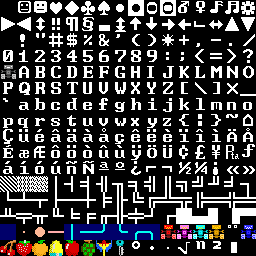
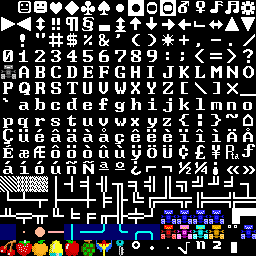
Track ghosts when edible (Fixes #38)
This commit fixes Issue #38.

I fixed it by creating new sprites for each ghost for when they are edible. The Ghost object has a normal `char` and an `edible_char` for when it is edible. The appropriate sprite is mapped depending on its personal vulnerability level (once eaten, ghosts are no longer vulnerable even if others are). The sensors (e.g.) inky_x and inky_y search for either INKY or EDIBLE_INKY and return whichever is visible. The point sensors (e.g.) sense_n will return GHOST regardless of which ghost or its edibility.

Changed region(s): [[0.625, 0.8125, 0.875, 0.875]]

diff --git a/game.py b/game.py
@@ -8,13 +8,15 @@ from CYLGame.Player import DefaultGridPlayer
 import sys
 
 
-DEBUG = False
+DEBUG = True
+DUMP_BOT_VARS = False
 
 
 class Ghost:
-    def __init__(self, name, char, start_x, start_y, in_house=True):
+    def __init__(self, name, char, edible_char, start_x, start_y, in_house=True):
         self.name = name
         self.char = char
+        self.edible_char = edible_char
         self.start_x = start_x
         self.start_y = start_y
         self.pos = [start_x, start_y]
@@ -84,6 +86,10 @@ class PacBot(GridGame):
     PINKY = chr(235)
     INKY = chr(236)
     CLYDE = chr(237)
+    EDIBLE_BLINKY = chr(218)
+    EDIBLE_PINKY = chr(219)
+    EDIBLE_INKY = chr(220)
+    EDIBLE_CLYDE = chr(221)
     EYES = chr(238)
     EDIBLE = chr(239)
 
@@ -133,10 +139,10 @@ class PacBot(GridGame):
         # array of ghost objects
         # ghosts use the functions in the PacBot object
         self.ghosts = {}
-        self.ghosts['blinky'] = Ghost("blinky", self.BLINKY, self.BLINKY_START_X, self.BLINKY_START_Y)
-        self.ghosts['pinky'] = Ghost("pinky", self.PINKY, self.PINKY_START_X, self.PINKY_START_Y)
-        self.ghosts['inky'] = Ghost("inky", self.INKY, self.INKY_START_X, self.INKY_START_Y)
-        self.ghosts['clyde'] = Ghost("clyde", self.CLYDE, self.CLYDE_START_X, self.CLYDE_START_Y)
+        self.ghosts['blinky'] = Ghost("blinky", self.BLINKY, self.EDIBLE_BLINKY, self.BLINKY_START_X, self.BLINKY_START_Y)
+        self.ghosts['pinky'] = Ghost("pinky", self.PINKY, self.EDIBLE_PINKY, self.PINKY_START_X, self.PINKY_START_Y)
+        self.ghosts['inky'] = Ghost("inky", self.INKY, self.EDIBLE_INKY, self.INKY_START_X, self.INKY_START_Y)
+        self.ghosts['clyde'] = Ghost("clyde", self.CLYDE, self.EDIBLE_CLYDE, self.CLYDE_START_X, self.CLYDE_START_Y)
 
         # self.__create_map()
 
@@ -282,8 +288,6 @@ class PacBot(GridGame):
 
         self.print_ready()
 
-        if DEBUG:
-            print(self.get_vars_for_bot())  # need sensors before turn
 
     def create_new_player(self, prog):
         self.player = DefaultGridPlayer(prog, self.get_move_consts())
@@ -312,7 +316,7 @@ class PacBot(GridGame):
                 placed_objects += 1
 
     def is_ghost(self, item):
-        if item == self.BLINKY or item == self.PINKY or item == self.INKY or item == self.CLYDE or item == self.EDIBLE:
+        if item == self.BLINKY or item == self.PINKY or item == self.INKY or item == self.CLYDE or item == self.EDIBLE_BLINKY or item == self.EDIBLE_PINKY or item == self.EDIBLE_INKY or item == self.EDIBLE_CLYDE:
             return True
         else:
             return False
@@ -342,11 +346,8 @@ class PacBot(GridGame):
     def redraw_ghost(self, ghost):
         if ghost.alive:
             if ghost.vulnerable > 0:
-                # draw ghosts in blue to indicate edibility
-                self.map[(ghost.pos[0], ghost.pos[1])] = self.EDIBLE
-
+                self.map[(ghost.pos[0], ghost.pos[1])] = ghost.edible_char
             else:
-                # otherwise use their color
                 self.map[(ghost.pos[0], ghost.pos[1])] = ghost.char
 
     def redraw_ghosts(self):
@@ -479,7 +480,6 @@ class PacBot(GridGame):
 
         # draw the ghost into the map spot so that other ghosts
         # won't share the same spot
-        # self.map[(ghost.pos[0], ghost.pos[1])] = ghost.char
         self.redraw_ghost(ghost)
         self.check_ghost_collisions()
 
@@ -531,10 +531,12 @@ class PacBot(GridGame):
             self.energized = self.ENERGIZED_TURNS
             self.pellets_eaten += 1
 
-            # make all ghosts vulnerable
+            # make all ghosts vulnerable:
+
             for g in self.ghosts:
                 ghost = self.ghosts[g]
                 ghost.vulnerable = self.ENERGIZED_TURNS
+                self.redraw_ghosts()
 
             self.pellets_eaten += 1
 
@@ -584,8 +586,6 @@ class PacBot(GridGame):
 
         # vars should be gotten at the end of handle_turn, because vars
         # affect the *next* turn...
-        if DEBUG:
-            print(self.get_vars_for_bot())
 
     def is_running(self):
         return self.running
@@ -614,7 +614,6 @@ class PacBot(GridGame):
 #                    item = ord(self.WALL)
                 w_arr.append(ord(self.map.p_to_char[(w,h)]))
             map_arr.append(tuple(w_arr))
-            print(w_arr)
 
         return tuple(map_arr)
 
@@ -653,16 +652,45 @@ class PacBot(GridGame):
         bot_vars["power_y"] = self.map.get_x_y_dist_to_foo(tuple(self.player_pos), self.POWER, default=(0, 0))[1]
         bot_vars["player_x"] = self.player_pos[0]
         bot_vars["player_y"] = self.player_pos[1]
-        bot_vars["blinky_x"] = self.map.get_x_y_dist_to_foo(tuple(self.player_pos), self.BLINKY, default=(0, 0))[0]
-        bot_vars["blinky_y"] = self.map.get_x_y_dist_to_foo(tuple(self.player_pos), self.BLINKY, default=(0, 0))[1]
-        bot_vars["inky_x"] = self.map.get_x_y_dist_to_foo(tuple(self.player_pos), self.INKY, default=(0, 0))[0]
-        bot_vars["inky_y"] = self.map.get_x_y_dist_to_foo(tuple(self.player_pos), self.INKY, default=(0, 0))[1]
-        bot_vars["pinky_x"] = self.map.get_x_y_dist_to_foo(tuple(self.player_pos), self.PINKY, default=(0, 0))[0]
-        bot_vars["pinky_y"] = self.map.get_x_y_dist_to_foo(tuple(self.player_pos), self.PINKY, default=(0, 0))[1]
-        bot_vars["clyde_x"] = self.map.get_x_y_dist_to_foo(tuple(self.player_pos), self.CLYDE, default=(0, 0))[0]
-        bot_vars["clyde_y"] = self.map.get_x_y_dist_to_foo(tuple(self.player_pos), self.CLYDE, default=(0, 0))[1]
+        
+        # get locations for ghosts -- edible or not
+        offset = self.map.get_x_y_dist_to_foo(tuple(self.player_pos), self.BLINKY, default=(0, 0))
 
+        if offset[0] == 0 and offset[1] == 0:
+            # blinky doesn't exist, so he must be edible_blinky!
+            offset = self.map.get_x_y_dist_to_foo(tuple(self.player_pos), self.EDIBLE_BLINKY, default=(0, 0))
+
+        bot_vars["blinky_x"] = offset[0]
+        bot_vars["blinky_y"] = offset[1]
+        
+        # rinse and repeat for other ghosts
+
+        offset = self.map.get_x_y_dist_to_foo(tuple(self.player_pos), self.INKY, default=(0, 0))
+
+        if offset[0] == 0 and offset[1] == 0:
+            offset = self.map.get_x_y_dist_to_foo(tuple(self.player_pos), self.EDIBLE_INKY, default=(0, 0))
+
+        bot_vars["inky_x"] = offset[0]
+        bot_vars["inky_y"] = offset[1]
+        
+        offset = self.map.get_x_y_dist_to_foo(tuple(self.player_pos), self.PINKY, default=(0, 0))
+
+        if offset[0] == 0 and offset[1] == 0:
+            offset = self.map.get_x_y_dist_to_foo(tuple(self.player_pos), self.EDIBLE_PINKY, default=(0, 0))
+
+        bot_vars["pinky_x"] = offset[0]
+        bot_vars["pinky_y"] = offset[1]
+        
+        offset = self.map.get_x_y_dist_to_foo(tuple(self.player_pos), self.CLYDE, default=(0, 0))
+
+        if offset[0] == 0 and offset[1] == 0:
+            offset = self.map.get_x_y_dist_to_foo(tuple(self.player_pos), self.EDIBLE_CLYDE, default=(0, 0))
+
+        bot_vars["clyde_x"] = offset[0]
+        bot_vars["clyde_y"] = offset[1]
+        
         bot_vars["map_array"] = self.get_map_array_tuple()
+
 
         # find closest fruit -- if one exists
         cand_x = 0
@@ -688,7 +716,17 @@ class PacBot(GridGame):
                 break
 
         if DEBUG:
-            print(bot_vars)
+            print("bot_vars:")
+            for key in bot_vars.keys():
+                if key != "map_array":
+                    print("%s : %s" % (key, bot_vars[key]))
+
+        if DUMP_BOT_VARS:
+            if "map_array" in bot_vars:
+                print("map_array:")
+                for row in bot_vars['map_array']:
+                    print(row)
+
 
         self.player.bot_vars = bot_vars
 
@@ -711,11 +749,15 @@ class PacBot(GridGame):
                              "POWER": ord(PacBot.POWER),
                              "WALL": ord(PacBot.WALL),
                              "GHOST": ord(PacBot.GHOST),
-                             "GHOST": ord(PacBot.INKY),
-                             "GHOST": ord(PacBot.PINKY),
-                             "GHOST": ord(PacBot.BLINKY),
-                             "GHOST": ord(PacBot.CLYDE),
+                             "INKY": ord(PacBot.INKY),
+                             "PINKY": ord(PacBot.PINKY),
+                             "BLINKY": ord(PacBot.BLINKY),
+                             "CLYDE": ord(PacBot.CLYDE),
                              "EDIBLE": ord(PacBot.EDIBLE),
+                             "EDIBLE_INKY": ord(PacBot.EDIBLE_INKY),
+                             "EDIBLE_PINKY": ord(PacBot.EDIBLE_PINKY),
+                             "EDIBLE_BLINKY": ord(PacBot.EDIBLE_BLINKY),
+                             "EDIBLE_CLYDE": ord(PacBot.EDIBLE_CLYDE),
                              "FRUIT": ord(PacBot.FRUIT),
                              "FRUIT": ord(PacBot.CHERRY),
                              "FRUIT": ord(PacBot.STRAWBERRY),
